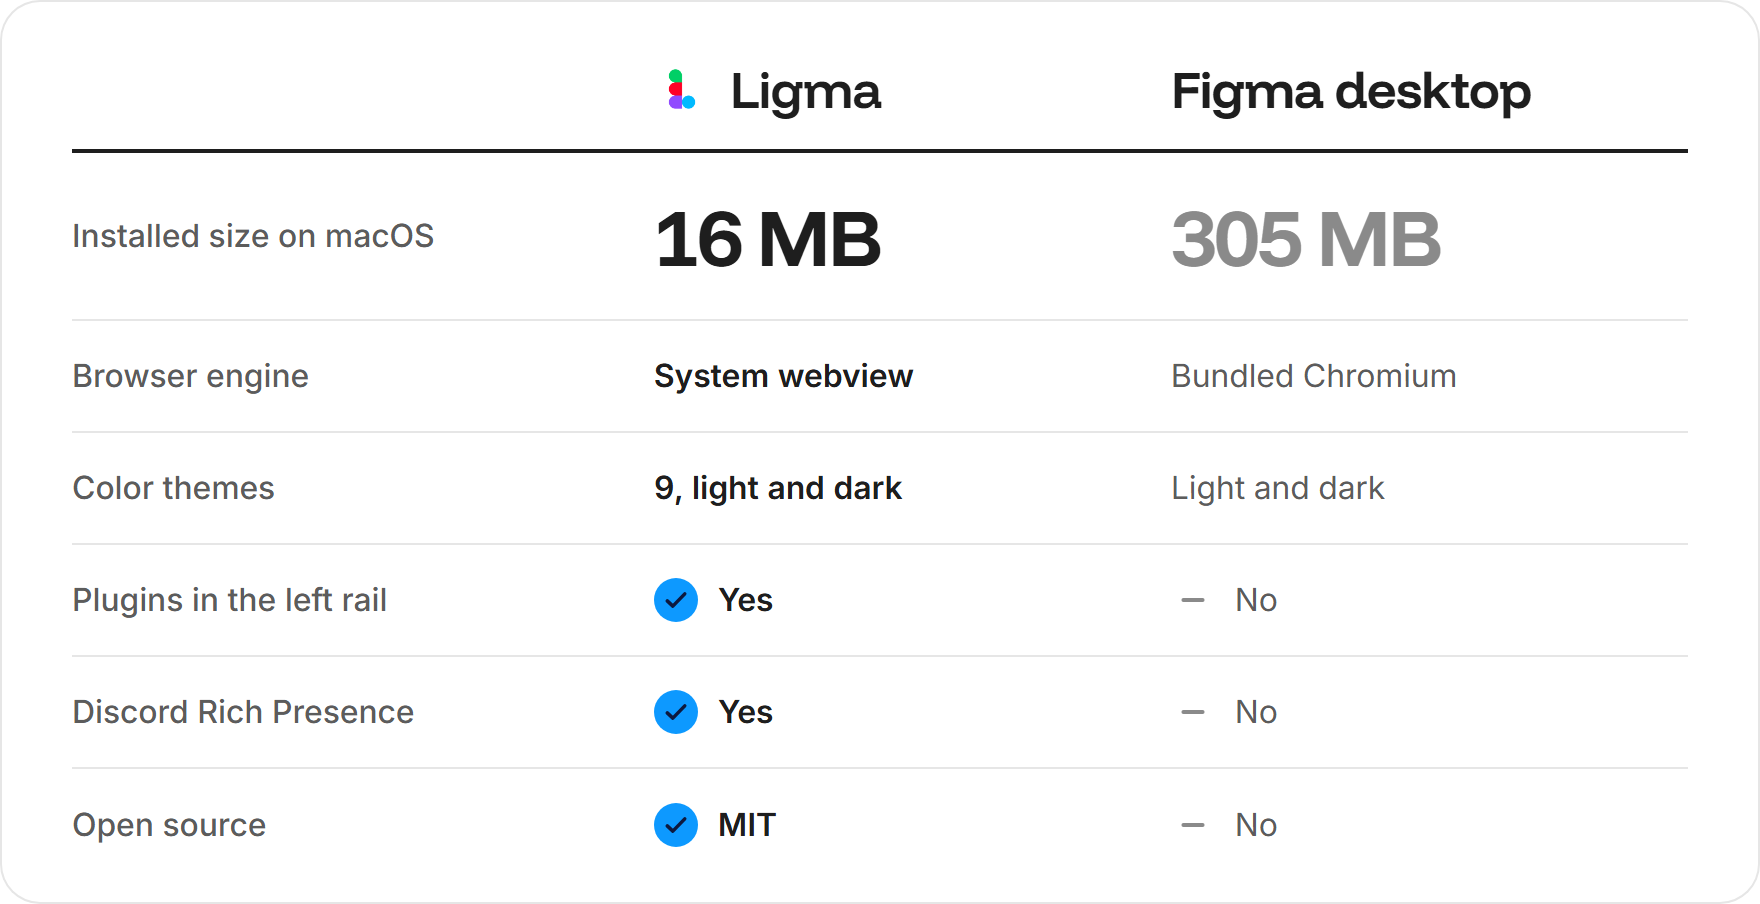
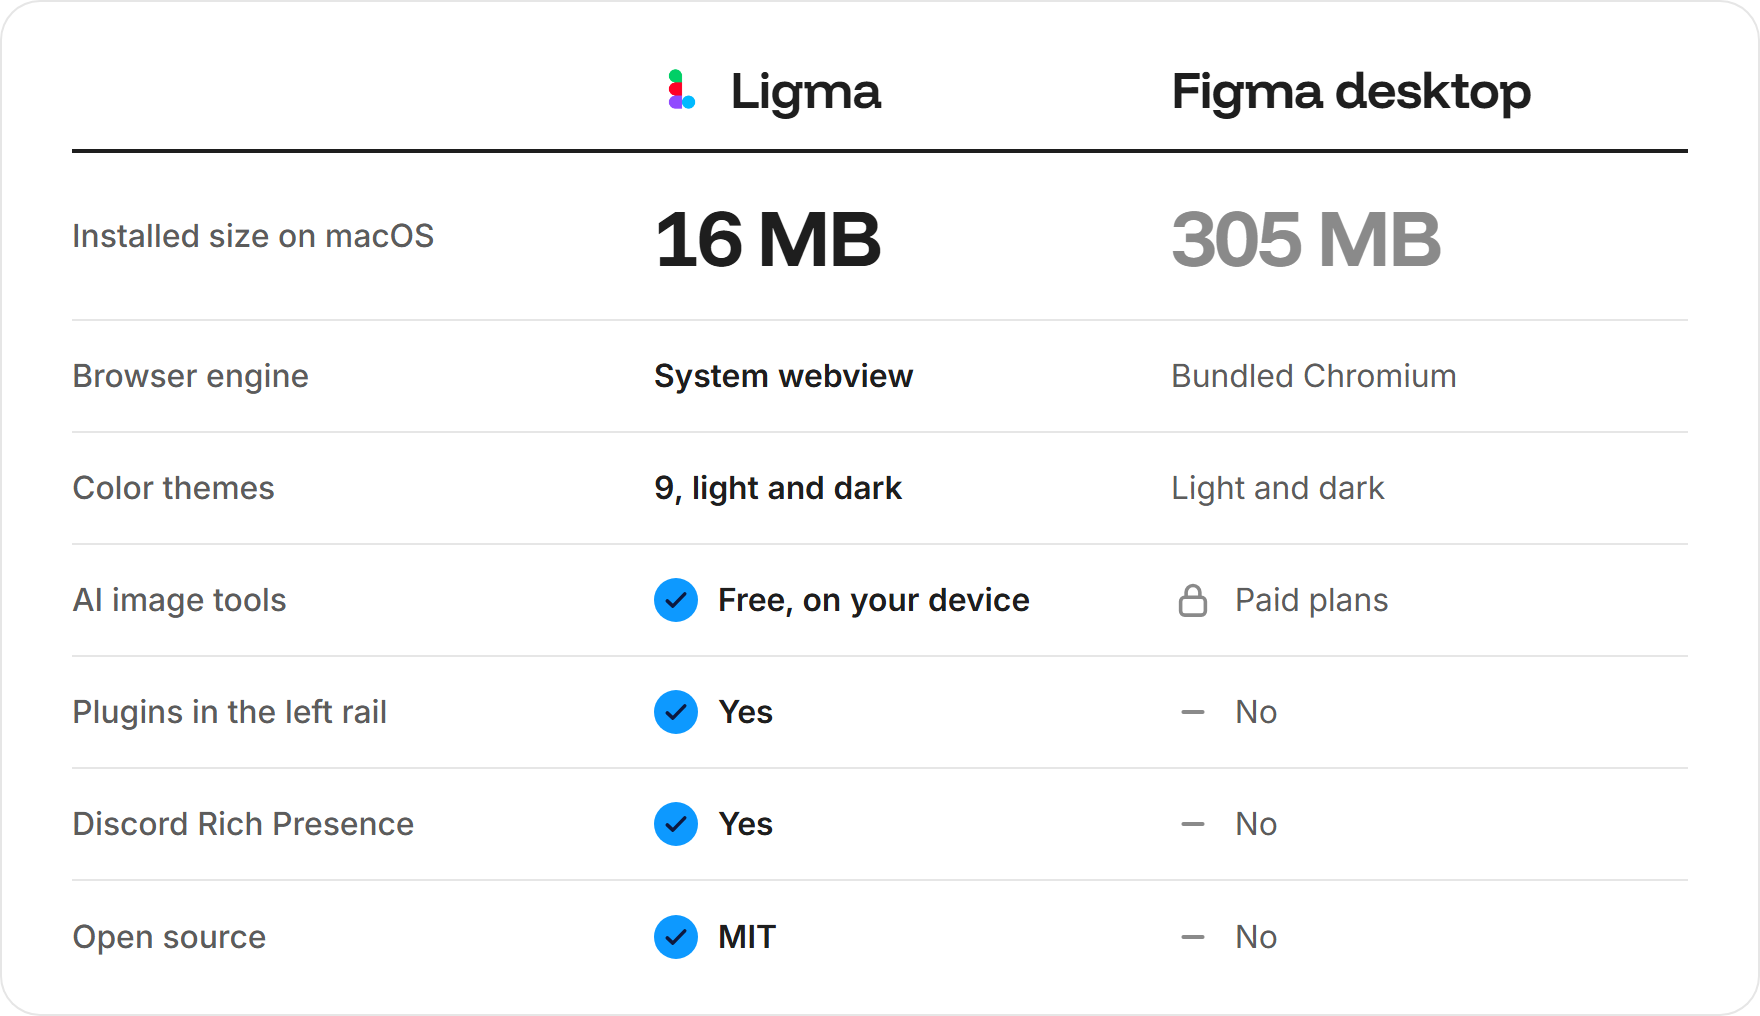
docs(readme): free local AI row in the comparison

diff --git a/assets/readme/readme.html b/assets/readme/readme.html
@@ -76,6 +76,7 @@
     <symbol id="windows" viewBox="0 0 24 24"><path d="M2 2h9.5v9.5H2zM12.5 2H22v9.5h-9.5zM2 12.5h9.5V22H2zM12.5 12.5H22V22h-9.5z"/></symbol>
     <!-- The site's icon grammar: 16px, 1.2 stroke -->
     <symbol id="check" viewBox="0 0 16 16" fill="none" stroke="currentColor" stroke-width="2" stroke-linecap="round" stroke-linejoin="round"><path d="m3 8.5 3.2 3L13 4.5"/></symbol>
+    <symbol id="lock" viewBox="0 0 16 16" fill="none" stroke="currentColor" stroke-width="1.3" stroke-linecap="round" stroke-linejoin="round"><rect x="3.5" y="7" width="9" height="6.5" rx="1.5"/><path d="M5.5 7V5.2a2.5 2.5 0 0 1 5 0V7"/></symbol>
     <symbol id="dash" viewBox="0 0 16 16" fill="none" stroke="currentColor" stroke-width="1.4" stroke-linecap="round"><path d="M4.5 8h7"/></symbol>
     <symbol id="cutout" viewBox="0 0 16 16" fill="none" stroke="currentColor" stroke-width="1.2" stroke-linecap="round" stroke-linejoin="round"><rect x="1.5" y="1.5" width="13" height="13" rx="2.5" stroke-dasharray="1.6 2.2"/><circle cx="8" cy="6.2" r="2.2"/><path d="M4 13.5c.5-2.2 2-3.6 4-3.6s3.5 1.4 4 3.6"/></symbol>
     <symbol id="vector" viewBox="0 0 16 16" fill="none" stroke="currentColor" stroke-width="1.2" stroke-linecap="round" stroke-linejoin="round"><path d="M3 12.5C4 6 12 10 13 3.5"/><path d="M3 12.5 7.5 9.8M13 3.5 8.5 6.2" stroke-dasharray="1 1.6"/><rect x="1.5" y="11" width="3" height="3" rx=".6"/><rect x="11.5" y="2" width="3" height="3" rx=".6"/></symbol>
@@ -92,6 +93,7 @@
     <div class="row big"><span>Installed size on macOS</span><span>16 MB</span><span>305 MB</span></div>
     <div class="row"><span>Browser engine</span><span>System webview</span><span>Bundled Chromium</span></div>
     <div class="row"><span>Color themes</span><span>9, light and dark</span><span>Light and dark</span></div>
+    <div class="row"><span>AI image tools</span><span class="yes"><svg><use href="#check"/></svg>Free, on your device</span><span class="no"><svg><use href="#lock"/></svg>Paid plans</span></div>
     <div class="row"><span>Plugins in the left rail</span><span class="yes"><svg><use href="#check"/></svg>Yes</span><span class="no"><svg><use href="#dash"/></svg>No</span></div>
     <div class="row"><span>Discord Rich Presence</span><span class="yes"><svg><use href="#check"/></svg>Yes</span><span class="no"><svg><use href="#dash"/></svg>No</span></div>
     <div class="row"><span>Open source</span><span class="yes"><svg><use href="#check"/></svg>MIT</span><span class="no"><svg><use href="#dash"/></svg>No</span></div>

diff --git a/README.md b/README.md
@@ -20,7 +20,7 @@ A lightweight desktop app for [Figma](https://www.figma.com), about 4 MB. Built 
 
 Ligma is for people who use Figma all day and want a desktop app that's lighter than the official one. It's built with [Tauri 2](https://tauri.app) and opens `figma.com` in the system webview (WebView2 on Windows, WKWebView on macOS) instead of bundling a browser engine, so it stays small.
 
-<picture><source media="(prefers-color-scheme: dark)" srcset="assets/readme/compare-dark.png"><img src="assets/readme/compare-light.png" width="880" alt="Ligma or Figma desktop. Installed size on macOS: Ligma 16 MB, Figma desktop 305 MB. Browser engine: system webview, or bundled Chromium. Color themes: 9 in light and dark, or light and dark. Plugins in the left rail, Discord Rich Presence and open source (MIT): Ligma yes, Figma desktop no"></picture>
+<picture><source media="(prefers-color-scheme: dark)" srcset="assets/readme/compare-dark.png"><img src="assets/readme/compare-light.png" width="880" alt="Ligma or Figma desktop. Installed size on macOS: Ligma 16 MB, Figma desktop 305 MB. Browser engine: system webview, or bundled Chromium. Color themes: 9 in light and dark, or light and dark. AI image tools: free and on your device, or paid plans only. Plugins in the left rail, Discord Rich Presence and open source (MIT): Ligma yes, Figma desktop no"></picture>
 
 Downloads are 2.2 MB on Windows and 7.1 MB on macOS (a universal build for Apple silicon and Intel). See [Memory](docs/MEMORY.md) to compare memory use on your own machine.
 
